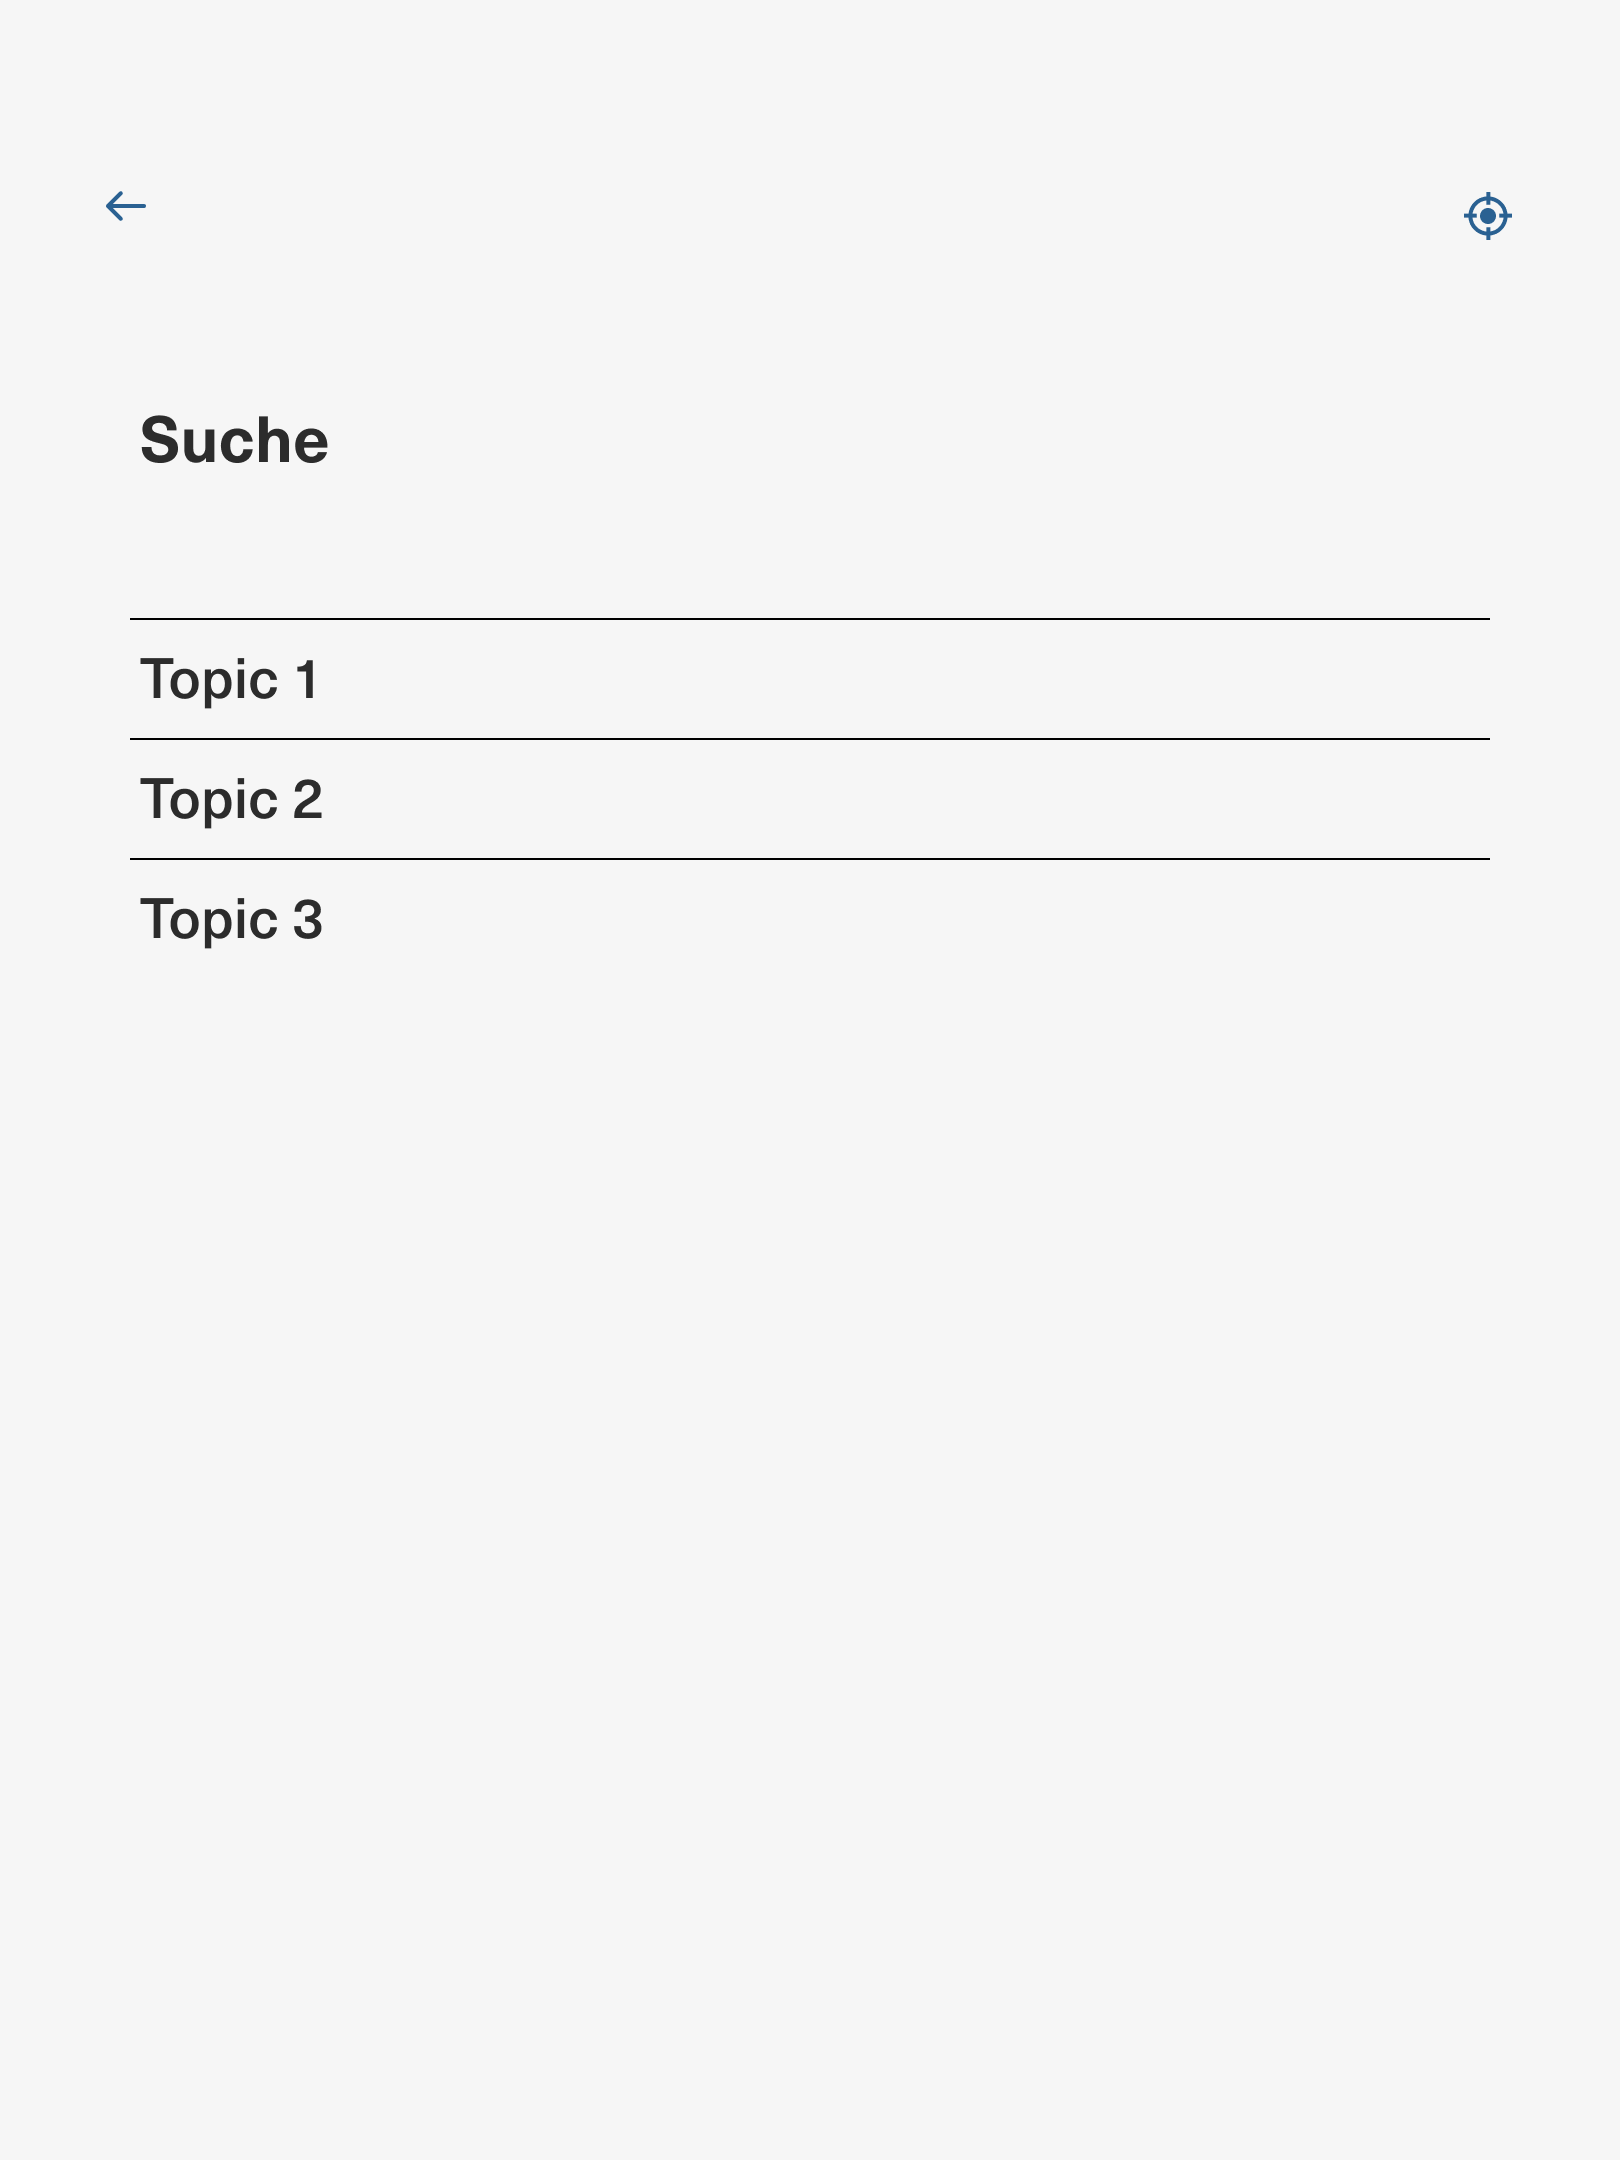
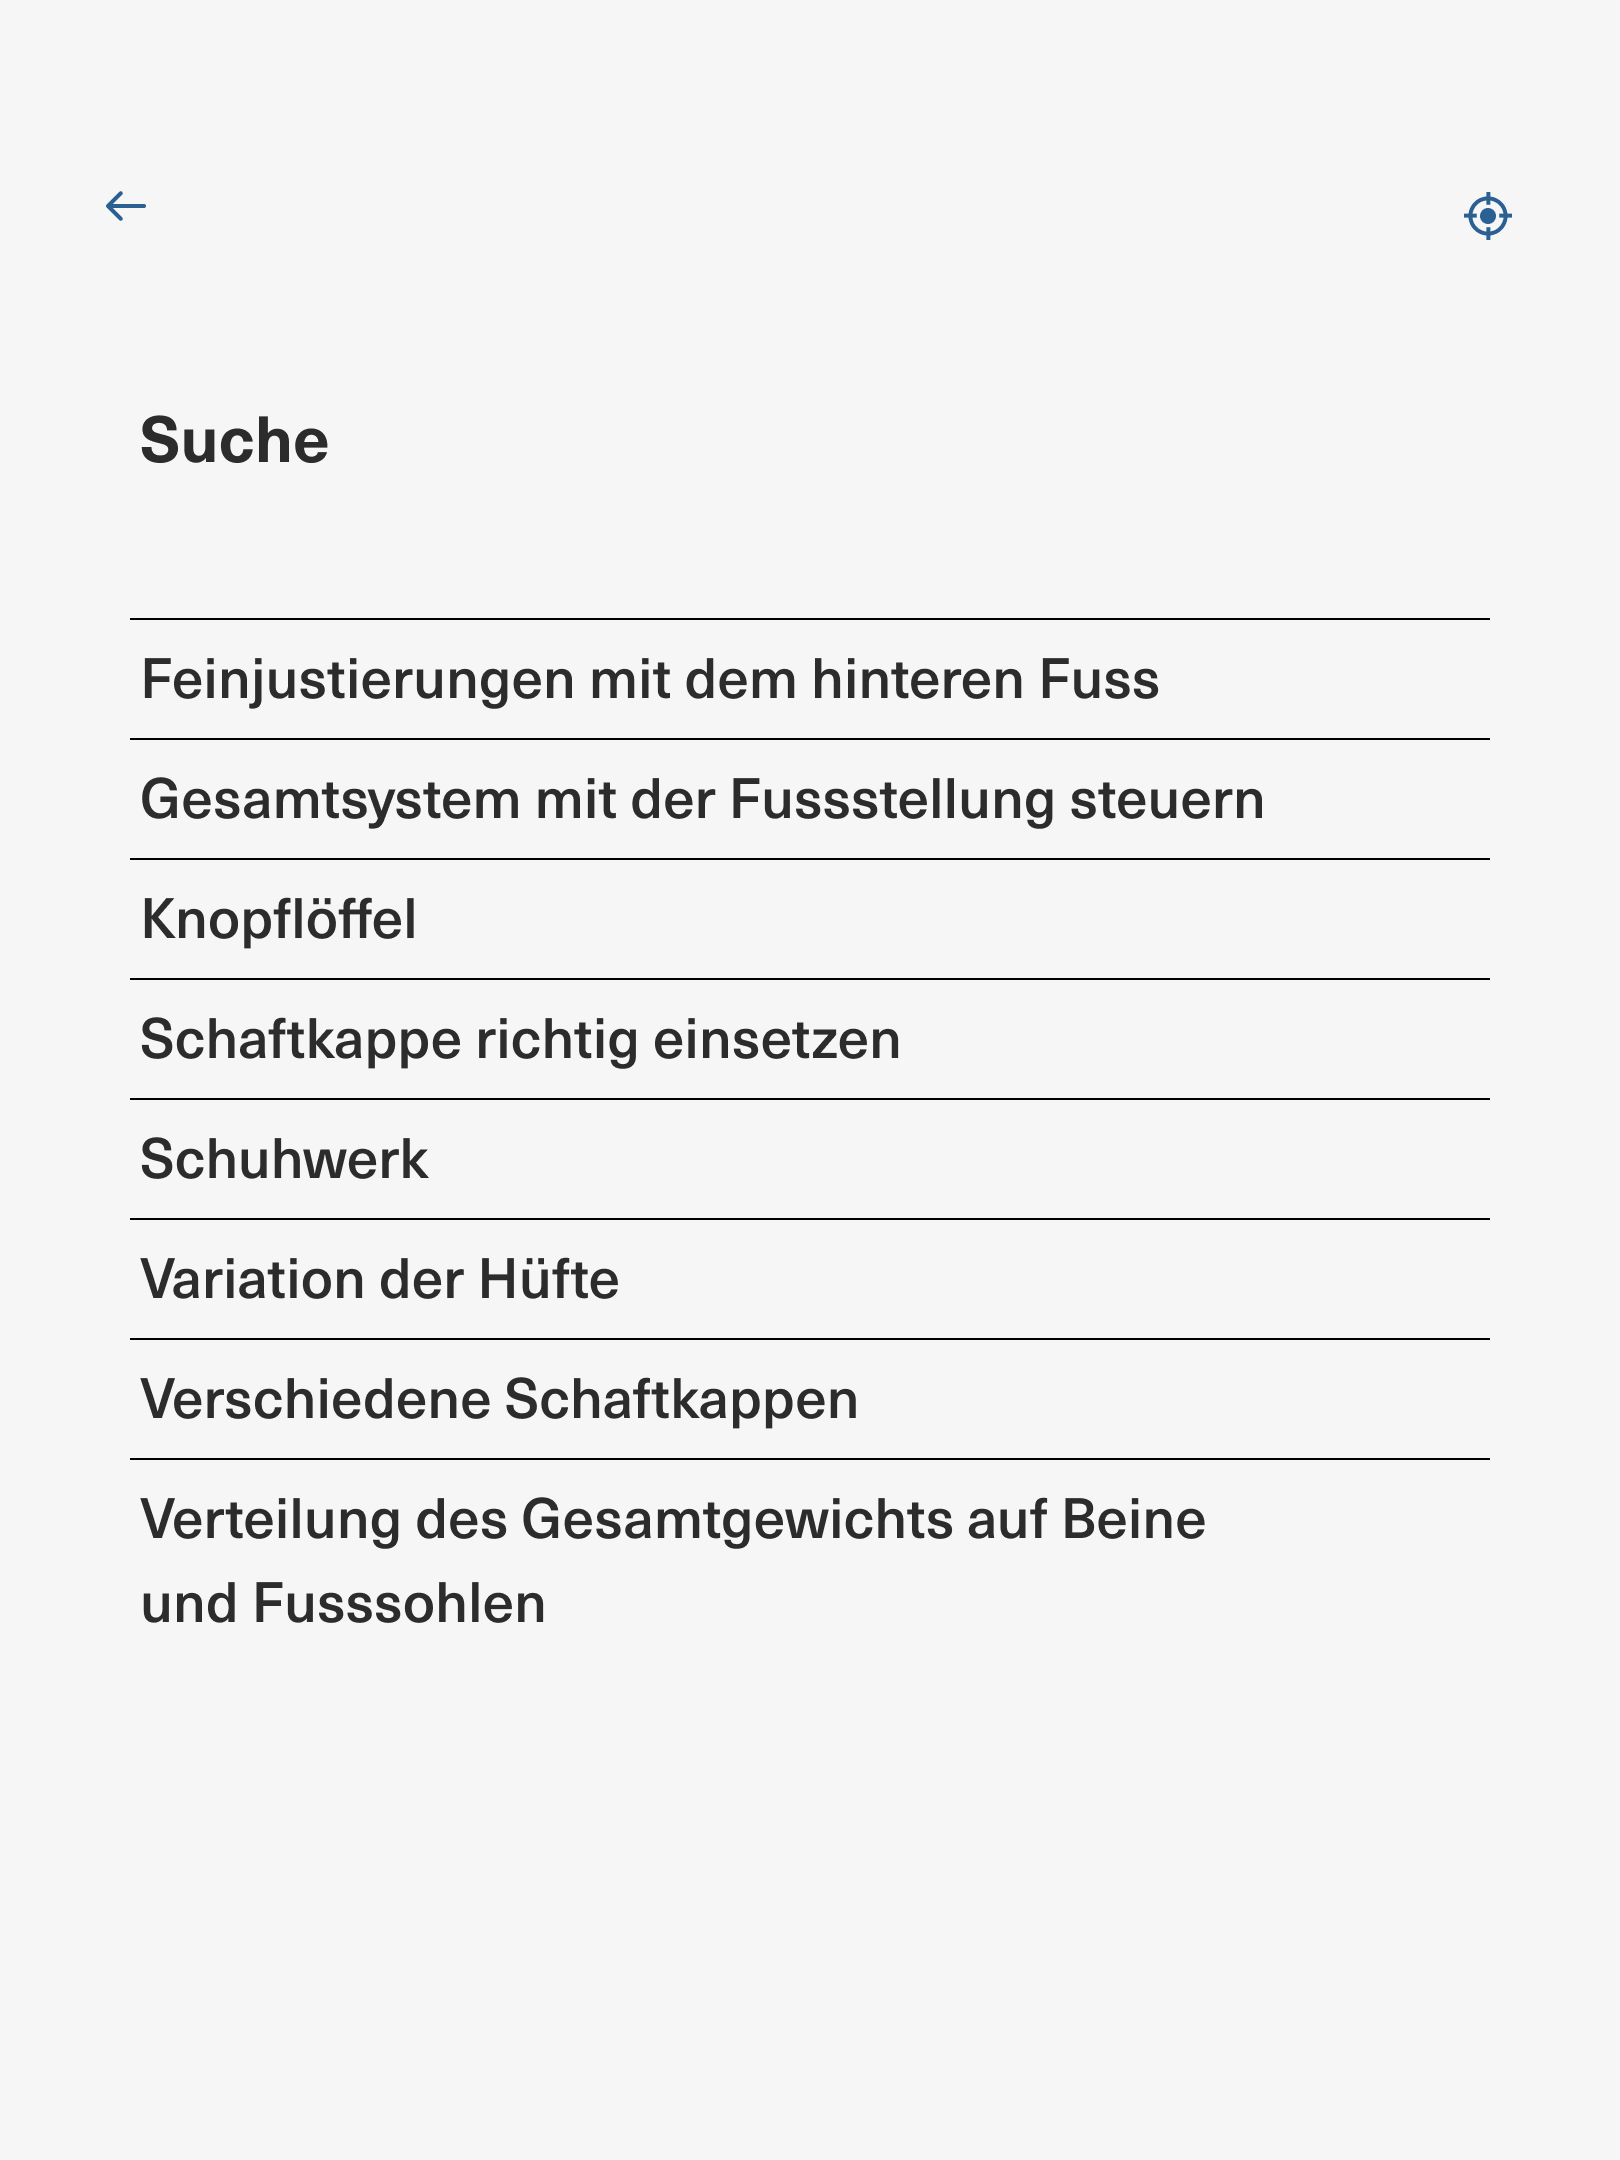
feat: search list jumps directly to the matching heading on detail pages
New Suche-per-Liste PNG with 8 content entries. Each row is a tap zone
that opens the right detail page pre-scrolled so the heading sits just
below the 120px header (scroll = headingY - 136). Heading positions
taken from Figma / pixel analysis.

When opened from search, the detail gets .over-menu (z-70) so it covers
menu+search; its own header taps (.dtap) mirror the global back/target
buttons. Back returns to the search list — one step at a time.

Detail scrollbars hidden so the image renders at exactly 810px wide in
desktop browsers too, keeping jump targets pixel-accurate.

Changed region(s): [[0.0926, 0.5273, 0.7407, 0.7755], [0.0926, 0.3102, 0.7716, 0.4343], [0.0926, 0.4653, 0.5556, 0.4963]]

diff --git a/index-ipad-810x1080.html b/index-ipad-810x1080.html
@@ -264,9 +264,21 @@
       overflow-y: auto;
       -webkit-overflow-scrolling: touch;
       overscroll-behavior: contain;
+      scrollbar-width: none;        /* keine Desktop-Scrollbar → Bild bleibt exakt 810px breit */
     }
+    .detail-scroll::-webkit-scrollbar { display: none; }
     .detail-img-wrap { position: relative; width: 100%; }
     .detail-img-wrap > img { width: 100%; height: auto; display: block; }
+
+    /* Detail opened from search list: lift above menu/sub-layer */
+    .detail-layer.over-menu { z-index: 70; }
+    /* In-detail header taps — only reachable when .over-menu covers
+       the global header buttons (z-50); same behavior as those */
+    .dtap {
+      position: absolute;
+      top: 79px; width: 88px; height: 55px;
+      z-index: 6; cursor: pointer;
+    }
 
     /* Zurück tap zone — exact positions set via inline style per detail */
     .zurück-tap {
@@ -665,6 +677,8 @@
         <div class="detail-head-target"><svg width="24" height="24"><use href="#ico-target"/></svg></div>
       </div>
     </div>
+    <div class="dtap dtap-back"   style="left:12px;"></div>
+    <div class="dtap dtap-target" style="left:710px;"></div>
     <div class="detail-scroll" id="dscroll-f1-1">
       <div class="detail-img-wrap">
         <img src="images_M/detail-f1-1_S-statisch.png" alt="Beine und Füsse – Detail">
@@ -681,6 +695,8 @@
         <div class="detail-head-target"><svg width="24" height="24"><use href="#ico-target"/></svg></div>
       </div>
     </div>
+    <div class="dtap dtap-back"   style="left:12px;"></div>
+    <div class="dtap dtap-target" style="left:710px;"></div>
     <div class="detail-scroll" id="dscroll-f1-2">
       <div class="detail-img-wrap">
         <img src="images_M/details-f1-2_S.png" alt="Hüfte – Detail">
@@ -697,6 +713,8 @@
         <div class="detail-head-target"><svg width="24" height="24"><use href="#ico-target"/></svg></div>
       </div>
     </div>
+    <div class="dtap dtap-back"   style="left:12px;"></div>
+    <div class="dtap dtap-target" style="left:710px;"></div>
     <div class="detail-scroll" id="dscroll-f1-3">
       <div class="detail-img-wrap">
         <img src="images_M/details-f1-3_S.png" alt="Arme – Detail">
@@ -720,6 +738,16 @@
     <img src="images_M/Suche-per-Liste_S.png" alt="Suche per Liste" draggable="false">
     <div class="menu-tap" data-action="back"   style="left:12px;  top:79px; width:88px; height:55px;"></div>
     <div class="menu-tap" data-action="target" style="left:auto; right:12px; top:79px; width:88px; height:55px;"></div>
+    <!-- Suchliste: Tap → Detail-Seite an der passenden Überschrift
+         (scroll = ÜberschriftY − 136 = Header 120px + 16px Luft) -->
+    <div class="menu-tap" data-action="jump" data-jump="f1-1:2462" style="top:309px; height:60px;"></div><!-- Feinjustierungen hinterer Fuss -->
+    <div class="menu-tap" data-action="jump" data-jump="f1-1:746"  style="top:369px; height:60px;"></div><!-- Gesamtsystem Fussstellung -->
+    <div class="menu-tap" data-action="jump" data-jump="f1-2:1252" style="top:429px; height:60px;"></div><!-- Knopflöffel -->
+    <div class="menu-tap" data-action="jump" data-jump="f1-3:8"    style="top:489px; height:60px;"></div><!-- Schaftkappe richtig einsetzen -->
+    <div class="menu-tap" data-action="jump" data-jump="f1-1:3887" style="top:549px; height:60px;"></div><!-- Schuhwerk -->
+    <div class="menu-tap" data-action="jump" data-jump="f1-2:6"    style="top:609px; height:60px;"></div><!-- Variation der Hüfte -->
+    <div class="menu-tap" data-action="jump" data-jump="f1-3:1096" style="top:669px; height:60px;"></div><!-- Verschiedene Schaftkappen -->
+    <div class="menu-tap" data-action="jump" data-jump="f1-1:0"    style="top:729px; height:84px;"></div><!-- Verteilung Gesamtgewicht (2-zeilig) -->
   </div>
 
   <!-- ── Impressum screen ─────────────────────────────────── -->
@@ -902,22 +930,34 @@ function resetTextSlides(closeupId) {
 //  DETAIL
 // ═══════════════════════════════════════════════════════════
 function openDetail(detailId) {
+  openDetailAt(detailId, 0);
+}
+// Opens a detail page scrolled so a given heading sits below the header.
+// When opened while menu/search is visible, the detail is lifted above
+// them (.over-menu) — back then returns to the search list.
+function openDetailAt(detailId, scrollY) {
   const layer = document.getElementById(`detail-${detailId}`);
   if (!layer) {
     openComingSoon();   // no detail page yet → show coming soon
     return;
   }
   activeDetailId = detailId;
+  if (activeMenu || activeSubScreen) layer.classList.add('over-menu');
   layer.classList.add('visible');
   const scroll = document.getElementById(`dscroll-${detailId}`);
-  if (scroll) scroll.scrollTop = 0;
+  if (scroll) scroll.scrollTop = scrollY || 0;
 }
 function dismissDetail() {
   if (!activeDetailId) return;
   const layer  = document.getElementById(`detail-${activeDetailId}`);
   const scroll = document.getElementById(`dscroll-${activeDetailId}`);
   if (layer)  layer.classList.remove('visible');
-  if (scroll) setTimeout(() => { scroll.scrollTop = 0; }, 350);
+  // keep .over-menu during the slide-out so the detail stays above
+  // the search list until the transition finishes
+  setTimeout(() => {
+    if (layer)  layer.classList.remove('over-menu');
+    if (scroll) scroll.scrollTop = 0;
+  }, 350);
   activeDetailId = null;
 }
 
@@ -1117,6 +1157,25 @@ document.querySelectorAll('.menu-tap').forEach(tap => {
     if (action === 'impressum') openSubScreen('impressum-layer');
     if (action === 'back')      { if (activeSubScreen) dismissSubScreen(); else dismissMenu(); }
     if (action === 'target')    { dismissSubScreen(); dismissMenu(); dismissAllCloseups(); }
+    if (action === 'jump')      {
+      const [detailId, scrollY] = tap.dataset.jump.split(':');
+      openDetailAt(detailId, parseInt(scrollY, 10));
+    }
+  });
+});
+
+// In-detail header taps (active when detail covers menu/search, z-70)
+document.querySelectorAll('.dtap-back').forEach(tap => {
+  tap.addEventListener('click', e => { e.stopPropagation(); dismissDetail(); });
+});
+document.querySelectorAll('.dtap-target').forEach(tap => {
+  tap.addEventListener('click', e => {
+    e.stopPropagation();
+    dismissComingSoon();
+    dismissSubScreen();
+    dismissMenu();
+    dismissDetail();
+    dismissAllCloseups();
   });
 });
 
